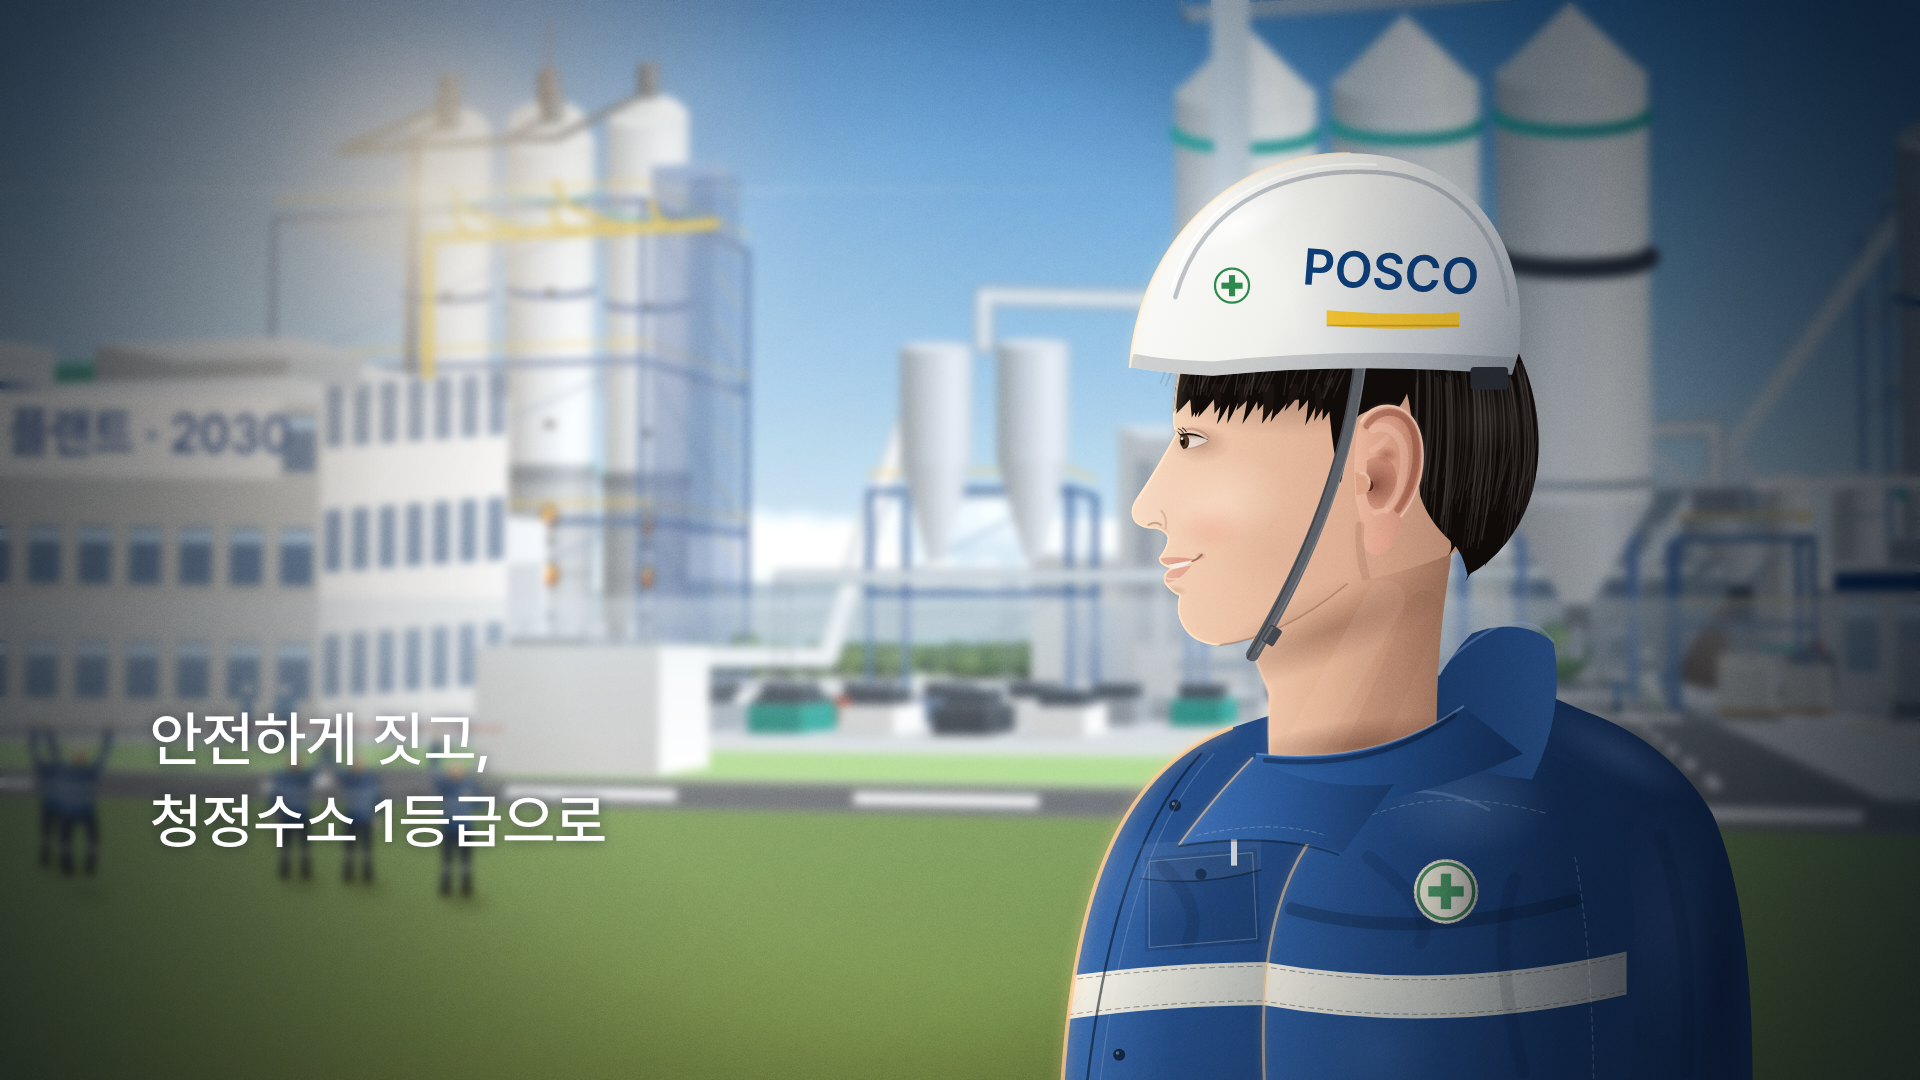
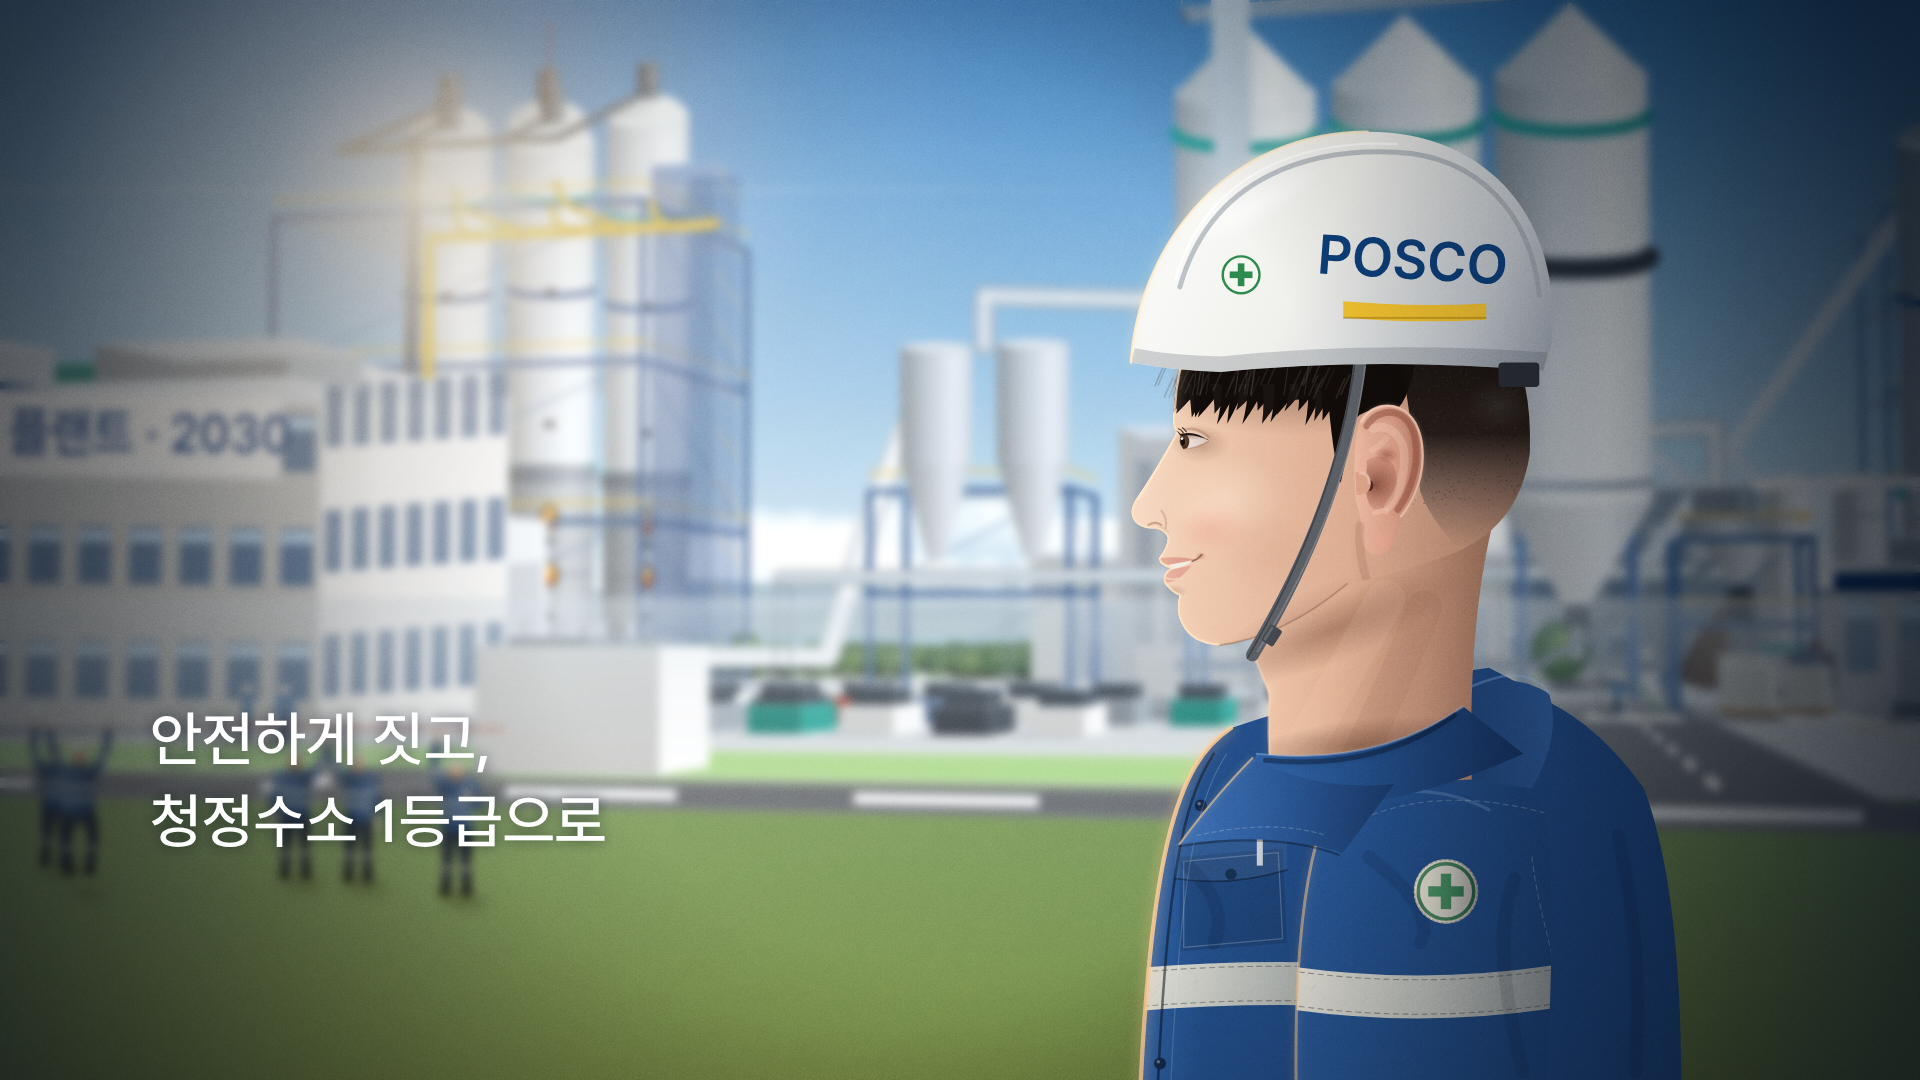
Plate 09A: flatter natural body, short back-and-sides hair, fitted helmet
Removes the inflated look: chest and back are straighter, the sleeve
hangs straight, the muscle highlight blobs are gone and the jacket
shading is flatter. The back hair is now a short back-and-sides crop
that follows the skull and fades into the nape, with the skull curving
smoothly into the neck. The helmet is enlarged slightly and centred
over the skull so its shell covers the back of the head, and the back
collar sits lower so the shoulders no longer read as hunched.

Claude-Session: https://claude.ai/code/session_014isZxqUwGxKLbYEc2hccQ6

Changed region(s): [[0.5312, 0.6417, 0.9375, 1.0], [0.5938, 0.1222, 0.8125, 0.6722]]

diff --git a/plates/plate09a_celebration.html b/plates/plate09a_celebration.html
@@ -1202,45 +1202,38 @@ function heroWorker(ox, oy, s) {
   const r = rng(808);
 
   /* ---- jacket: torso, near arm, collar ---- */
-  const torso = () => { g.beginPath(); M(-.3, .6); Cc(-.56, .7, -.7, .98, -.7, 1.7); L(.9, 1.7); Cc(.93, 1.35, .91, 1.0, .82, .8); Qc(.72, .63, .52, .56); Qc(.38, .5, .3, .46); Qc(0, .5, -.3, .6); g.closePath(); };
-  torso(); g.fillStyle = lgH(-.64, .82, [[0, '#3B6DB0'], [.14, '#26508C'], [.55, '#1B3B69'], [1, '#11264A']]); g.fill();
+  const torso = () => { g.beginPath(); M(-.3, .6); Cc(-.42, .68, -.5, .86, -.52, 1.7); L(.74, 1.7); Cc(.76, 1.3, .74, .95, .66, .74); Qc(.56, .6, .44, .54); Qc(.38, .5, .3, .46); Qc(0, .5, -.3, .6); g.closePath(); };
+  torso(); g.fillStyle = lgH(-.52, .76, [[0, '#2F62A6'], [.12, '#24508C'], [.6, '#204780'], [1, '#183A6C']]); g.fill();
   g.save(); torso(); g.clip();
   // chest reflective band + placket
   g.fillStyle = lgH(-.64, .2, [[0, '#F4F1E6'], [.5, '#BFC3BE'], [1, '#7E848A']]); g.beginPath(); M(-.7, 1.18); Qc(-.3, 1.12, .2, 1.16); L(.2, 1.26); Qc(-.3, 1.22, -.7, 1.28); g.closePath(); g.fill();
-  stroke('rgba(8,16,30,.55)', .006, () => { M(-.37, .66); Cc(-.52, .82, -.62, 1.1, -.66, 1.7); });
+  stroke('rgba(8,16,30,.55)', .006, () => { M(-.34, .66); Cc(-.42, .78, -.46, 1.0, -.48, 1.7); });
   for (let i = 0; i < 2600; i++) { const x = -.75 + r() * 1.75, y = .5 + r() * 1.25; stroke(r() > .5 ? 'rgba(255,255,255,.018)' : 'rgba(0,0,0,.035)', .0025, () => { M(x, y); L(x + .008, y - .008); }); }
   // chest pocket with flap, button and pen
-  g.fillStyle = 'rgba(0,0,0,.12)'; g.beginPath(); M(-.5, .9); L(-.24, .88); L(-.23, 1.1); L(-.5, 1.12); g.closePath(); g.fill();
-  stroke('rgba(255,255,255,.22)', .003, () => { M(-.49, .91); L(-.25, .89); L(-.24, 1.09); L(-.49, 1.11); g.closePath(); });
-  g.fillStyle = 'rgba(255,255,255,.06)'; g.beginPath(); M(-.51, .87); L(-.23, .85); L(-.23, .93); Qc(-.37, .97, -.51, .95); g.closePath(); g.fill();
-  stroke('rgba(0,0,0,.35)', .004, () => { M(-.51, .95); Qc(-.37, .97, -.23, .93); });
-  g.fillStyle = '#16304F'; g.beginPath(); g.arc(X(-.37), Y(.94), .013 * s, 0, 7); g.fill();
-  g.fillStyle = '#C9CFD6'; g.fillRect(X(-.3), Y(.8), .014 * s, .12 * s); g.fillStyle = '#1A1D22'; g.fillRect(X(-.302), Y(.78), .018 * s, .035 * s);
+  g.fillStyle = 'rgba(0,0,0,.12)'; g.beginPath(); M(-.42, .9); L(-.18, .88); L(-.17, 1.1); L(-.42, 1.12); g.closePath(); g.fill();
+  stroke('rgba(255,255,255,.22)', .003, () => { M(-.41, .91); L(-.19, .89); L(-.18, 1.09); L(-.41, 1.11); g.closePath(); });
+  g.fillStyle = 'rgba(255,255,255,.06)'; g.beginPath(); M(-.43, .87); L(-.17, .85); L(-.17, .93); Qc(-.3, .97, -.43, .95); g.closePath(); g.fill();
+  stroke('rgba(0,0,0,.35)', .004, () => { M(-.43, .95); Qc(-.3, .97, -.17, .93); });
+  g.fillStyle = '#16304F'; g.beginPath(); g.arc(X(-.3), Y(.94), .013 * s, 0, 7); g.fill();
+  g.fillStyle = '#C9CFD6'; g.fillRect(X(-.24), Y(.8), .014 * s, .12 * s); g.fillStyle = '#1A1D22'; g.fillRect(X(-.242), Y(.78), .018 * s, .035 * s);
   // buttons on the placket
-  [[-.43, .78], [-.56, 1.36], [-.62, 1.6]].forEach(([x, y]) => { g.fillStyle = '#14294A'; g.beginPath(); g.arc(X(x), Y(y), .014 * s, 0, 7); g.fill(); g.fillStyle = 'rgba(255,255,255,.35)'; g.beginPath(); g.arc(X(x) - .004 * s, Y(y) - .004 * s, .004 * s, 0, 7); g.fill(); });
-  stroke('rgba(255,255,255,.16)', .003, () => { M(-.34, .66); Cc(-.49, .82, -.59, 1.1, -.63, 1.7); });
+  [[-.37, .78], [-.465, 1.38], [-.475, 1.6]].forEach(([x, y]) => { g.fillStyle = '#14294A'; g.beginPath(); g.arc(X(x), Y(y), .014 * s, 0, 7); g.fill(); g.fillStyle = 'rgba(255,255,255,.35)'; g.beginPath(); g.arc(X(x) - .004 * s, Y(y) - .004 * s, .004 * s, 0, 7); g.fill(); });
+  stroke('rgba(255,255,255,.16)', .003, () => { M(-.31, .66); Cc(-.39, .78, -.43, 1.0, -.45, 1.7); });
   // stitched edges of the chest band
   g.save(); g.setLineDash([.012 * s, .01 * s]); stroke('rgba(60,60,60,.45)', .0025, () => { M(-.7, 1.19); Qc(-.3, 1.13, .2, 1.17); M(-.7, 1.27); Qc(-.3, 1.21, .2, 1.25); }); g.restore();
   // muscle volume under the jacket: trapezius ridge, lats, pecs
-  blob(.6, .66, .2, .06, '120,160,215', .22, .5);
-  blob(.72, 1.05, .14, .3, '90,130,190', .14);
-  blob(.84, 1.2, .06, .4, '5,12,25', .28);
-  blob(-.5, .95, .16, .12, '120,160,215', .16);
   // fabric folds
-  [[-.46, .92, -.36, 1.02, -.4, 1.1], [.7, .85, .78, 1.1, .76, 1.4]].forEach(([a, b, c, d, e, f]) => stroke('rgba(5,12,25,.1)', .03, () => { M(a, b); Qc(c, d, e, f); }, 10));
+  [[-.4, .92, -.3, 1.02, -.34, 1.1], [.6, .85, .66, 1.1, .64, 1.4]].forEach(([a, b, c, d, e, f]) => stroke('rgba(5,12,25,.1)', .03, () => { M(a, b); Qc(c, d, e, f); }, 10));
   g.restore();
-  stroke('rgba(255,206,150,.85)', .01, () => { M(-.3, .6); Cc(-.56, .7, -.7, .98, -.7, 1.7); }, 14);       // warm rim on the chest edge
+  stroke('rgba(255,206,150,.85)', .01, () => { M(-.3, .6); Cc(-.42, .68, -.5, .86, -.52, 1.7); }, 14);       // warm rim on the chest edge
   // near arm (sleeve) with reflective band
-  const arm = () => { g.beginPath(); M(-.1, .84); Cc(-.23, 1.0, -.25, 1.26, -.2, 1.7); L(.6, 1.7); Cc(.64, 1.3, .68, .98, .57, .76); Cc(.45, .57, .03, .59, -.1, .84); g.closePath(); };
-  arm(); g.fillStyle = lgH(-.2, .48, [[0, '#2F5E9E'], [.4, '#21477E'], [1, '#142E56']]); g.fill();
+  const arm = () => { g.beginPath(); M(-.08, .8); Cc(-.15, .98, -.16, 1.3, -.14, 1.7); L(.42, 1.7); Cc(.44, 1.3, .46, 1.0, .43, .8); Cc(.36, .64, .03, .63, -.08, .8); g.closePath(); };
+  arm(); g.fillStyle = lgH(-.16, .46, [[0, '#2B5B9C'], [.4, '#24508C'], [1, '#1B3F72']]); g.fill();
   g.save(); arm(); g.clip();
   g.fillStyle = lgH(-.2, .6, [[0, '#F1EEE4'], [.45, '#C3C6C1'], [1, '#6E747B']]); g.beginPath(); M(-.25, 1.14); Qc(.18, 1.22, .62, 1.12); L(.62, 1.22); Qc(.18, 1.32, -.25, 1.24); g.closePath(); g.fill();
   for (let i = 0; i < 900; i++) { const x = -.2 + r() * .8, y = .62 + r() * 1.1; stroke(r() > .5 ? 'rgba(255,255,255,.018)' : 'rgba(0,0,0,.035)', .0025, () => { M(x, y); L(x + .008, y - .008); }); }
   g.save(); g.setLineDash([.012 * s, .01 * s]); stroke('rgba(60,60,60,.45)', .0025, () => { M(-.25, 1.15); Qc(.18, 1.23, .62, 1.13); M(-.25, 1.23); Qc(.18, 1.31, .62, 1.21); });
-  stroke('rgba(255,255,255,.2)', .0028, () => { M(-.05, .84); Qc(.15, .72, .44, .8); M(.5, .9); Cc(.54, 1.1, .55, 1.4, .54, 1.7); }); g.restore();
-  blob(.24, .78, .2, .12, '130,170,225', .25);                       // rounded deltoid catching light
-  stroke('rgba(5,12,25,.22)', .03, () => { M(-.16, 1.02); Qc(.12, 1.1, .5, 1.0); }, 14);   // deltoid / biceps separation
-  blob(.05, 1.35, .14, .14, '120,160,215', .12);                     // biceps volume
+  stroke('rgba(255,255,255,.2)', .0028, () => { M(-.05, .84); Qc(.15, .72, .44, .8); M(.4, .9); Cc(.42, 1.1, .55, 1.4, .54, 1.7); }); g.restore();
   // embroidered safety patch (green cross) on the sleeve
   { const c = [X(.2), Y(.98)], R = .075 * s; g.fillStyle = '#E9E4D2'; g.beginPath(); g.arc(c[0], c[1], R, 0, 7); g.fill(); g.strokeStyle = '#2E7A48'; g.lineWidth = .008 * s; g.beginPath(); g.arc(c[0], c[1], R * .86, 0, 7); g.stroke();
     g.fillStyle = '#2E8A4E'; g.fillRect(c[0] - R * .16, c[1] - R * .55, R * .32, R * 1.1); g.fillRect(c[0] - R * .55, c[1] - R * .16, R * 1.1, R * .32);
@@ -1249,16 +1242,16 @@ function heroWorker(ox, oy, s) {
   [[.02, .9, .18, 1.02, .14, 1.1], [.36, .95, .3, 1.1, .38, 1.4]].forEach(([a, b, c, d, e, f]) => stroke('rgba(5,12,25,.1)', .03, () => { M(a, b); Qc(c, d, e, f); }, 10));
   stroke('rgba(150,180,220,.25)', .008, () => { M(-.06, .8); Qc(.12, .7, .3, .79); });     // shoulder seam catch-light
   g.restore();
-  stroke('rgba(255,206,150,.55)', .007, () => { M(-.1, .84); Cc(-.23, 1.0, -.25, 1.26, -.2, 1.7); }, 10);
+  stroke('rgba(255,206,150,.55)', .007, () => { M(-.08, .8); Cc(-.15, .98, -.16, 1.3, -.14, 1.7); }, 10);
 
   /* ---- collar back (behind the neck) ---- */
-  g.beginPath(); M(.1, .68); Qc(.16, .48, .26, .38); Qc(.37, .34, .45, .4); Qc(.48, .56, .4, .72); g.closePath();
+  g.beginPath(); M(.1, .7); Qc(.17, .55, .26, .5); Qc(.36, .47, .44, .52); Qc(.47, .62, .4, .74); g.closePath();
   g.fillStyle = lgH(.14, .45, [[0, '#1B3B69'], [.6, '#22487F'], [1, '#2A5590']]); g.fill();
-  stroke('rgba(150,180,225,.35)', .006, () => { M(.17, .48); Qc(.24, .4, .33, .36); Qc(.41, .34, .45, .4); });       // folded top edge
+  stroke('rgba(150,180,225,.35)', .006, () => { M(.17, .56); Qc(.24, .5, .33, .48); Qc(.41, .47, .44, .52); });       // folded top edge
 
   /* ---- neck: slimmer, shaded, flowing into the collar ---- */
-  const neck = () => { g.beginPath(); M(-.25, .4); Qc(-.236, .46, -.218, .5); Qc(-.206, .53, -.212, .57); Qc(-.214, .65, -.205, .74); L(.18, .72); Qc(.17, .45, .21, .22); L(.22, .1); L(-.05, .18); L(-.26, .35); g.closePath(); };
-  neck(); g.fillStyle = lgH(-.22, .2, [[0, '#EEC6AA'], [.35, '#DDAE91'], [.75, '#C4937A'], [1, '#A57861']]); g.fill();
+  const neck = () => { g.beginPath(); M(-.25, .4); Qc(-.236, .46, -.218, .5); Qc(-.206, .53, -.212, .57); Qc(-.214, .65, -.205, .74); L(.26, .72); Qc(.25, .36, .31, .12); L(.22, .06); L(-.05, .18); L(-.26, .35); g.closePath(); };
+  neck(); g.fillStyle = lgH(-.22, .28, [[0, '#EEC6AA'], [.35, '#DDAE91'], [.75, '#C4937A'], [1, '#A57861']]); g.fill();
   g.save(); neck(); g.clip();
   blob(-.06, .37, .32, .075, '125,82,62', .5, -.38);                                                   // shadow cast by the jaw
   stroke('rgba(255,228,210,.1)', .09, () => { M(.06, .3); Qc(-.03, .46, -.14, .66); }, 30);          // sternocleidomastoid catching light
@@ -1339,15 +1332,13 @@ function heroWorker(ox, oy, s) {
   g.restore();
   // side + back hair (outside the head clip so it can stand off the skull)
   g.fillStyle = HAIR; g.beginPath(); M(-.08, -.26); L(.13, -.27); Qc(.12, -.17, .08, -.135); Qc(.02, -.15, -.01, -.12); Qc(-.03, -.04, -.045, .03); Qc(-.07, -.06, -.08, -.26); g.closePath(); g.fill();
-  const backHair = () => { g.beginPath(); M(.08, -.27); L(.37, -.27); Qc(.42, -.16, .415, -.04); Qc(.41, .08, .34, .17); Qc(.3, .22, .25, .245);
-    Qc(.24, .19, .21, .165); Qc(.16, .12, .14, .06); Qc(.13, -.05, .12, -.12); Qc(.11, -.2, .08, -.27); g.closePath(); };
-  backHair(); g.fillStyle = HAIR; g.fill();
-  g.save(); backHair(); g.clip();
-  blob(.3, -.12, .1, .08, '120,112,108', .22);                                                         // soft sheen on the crown side
-  for (let i = 0; i < 90; i++) { const t = r(), x = .13 + t * .27, y = -.26 + r() * .06, L2 = .25 + r() * .2;
-    stroke(`rgba(105,98,94,${.12 + r() * .18})`, .0035, () => { M(x, y); Qc(x + .05 * t, y + L2 * .55, x - .02 + .02 * t, y + L2); }); }
+  // short back and sides: a close crop that follows the skull and fades out above the nape
+  g.save(); head(); g.clip();
+  g.beginPath(); M(.09, -.3); L(.45, -.32); L(.45, .22); L(.25, .2); Qc(.17, .13, .14, .05); Qc(.12, -.1, .09, -.3); g.closePath();
+  { const q = g.createLinearGradient(0, Y(-.3), 0, Y(.18)); q.addColorStop(0, 'rgba(18,13,11,.96)'); q.addColorStop(.45, 'rgba(22,17,15,.9)'); q.addColorStop(.72, 'rgba(45,42,46,.45)'); q.addColorStop(1, 'rgba(60,58,62,0)'); g.fillStyle = q; g.fill(); }
+  for (let i = 0; i < 700; i++) { const x = .12 + r() * .3, y = -.28 + r() * .36; g.fillStyle = `rgba(${r() > .5 ? '10,8,7' : '90,84,82'},${.12 + r() * .18})`; g.fillRect(X(x), Y(y), 1.4, 1.4); }
+  blob(.32, -.15, .08, .06, '140,132,128', .16);                                                         // soft sheen
   g.restore();
-  [[.26, .2, .245, .26], [.3, .17, .29, .225], [.22, .15, .205, .2]].forEach(([x, y, x2, y2]) => { g.fillStyle = HAIR; g.beginPath(); M(x - .015, y); Qc(x, y + .03, x2, y2); Qc(x + .01, y + .02, x + .02, y - .01); g.closePath(); g.fill(); });
   for (let i = 0; i < 30; i++) { const x = -.46 + r() * .44, y = -.25 + r() * .04;
     stroke(`rgba(95,88,84,${.15 + r() * .18})`, .004, () => { M(x, y); Qc(x - .01, y + .02, x - .02, y + .045); }); }
   // ear: helix, antihelix with crura, concha, ear canal behind the tragus, antitragus, fleshy lobe
@@ -1381,7 +1372,7 @@ function heroWorker(ox, oy, s) {
   g.save(); g.translate(X(-.205), Y(.385)); g.rotate(-1.0); g.fillStyle = '#44484F'; g.beginPath(); g.roundRect(-.022 * s, -.016 * s, .044 * s, .032 * s, .006 * s); g.fill(); g.fillStyle = 'rgba(255,255,255,.18)'; g.fillRect(-.018 * s, -.012 * s, .036 * s, .006 * s); g.restore();
 
   /* ---- helmet ---- */
-  g.save(); g.translate(X(-.06), Y(-.235)); g.scale(.88, .88); g.translate(-X(-.06), -Y(-.25));
+  g.save(); g.translate(X(-.02), Y(-.245)); g.scale(.95, .95); g.translate(-X(-.06), -Y(-.25));
   const helmet = () => { g.beginPath(); M(-.6, -.255); Cc(-.58, -.55, -.36, -.82, -.02, -.82); Cc(.28, -.82, .46, -.6, .43, -.3); L(.41, -.235); Qc(0, -.27, -.38, -.232); Qc(-.5, -.236, -.6, -.255); g.closePath(); };
   helmet(); { const q = g.createLinearGradient(X(-.6), Y(-.8), X(.45), Y(-.25)); q.addColorStop(0, '#FFFFFF'); q.addColorStop(.45, '#F0F0EC'); q.addColorStop(.8, '#C6CBD1'); q.addColorStop(1, '#98A0AB'); g.fillStyle = q; g.fill(); }
   g.save(); helmet(); g.clip();
